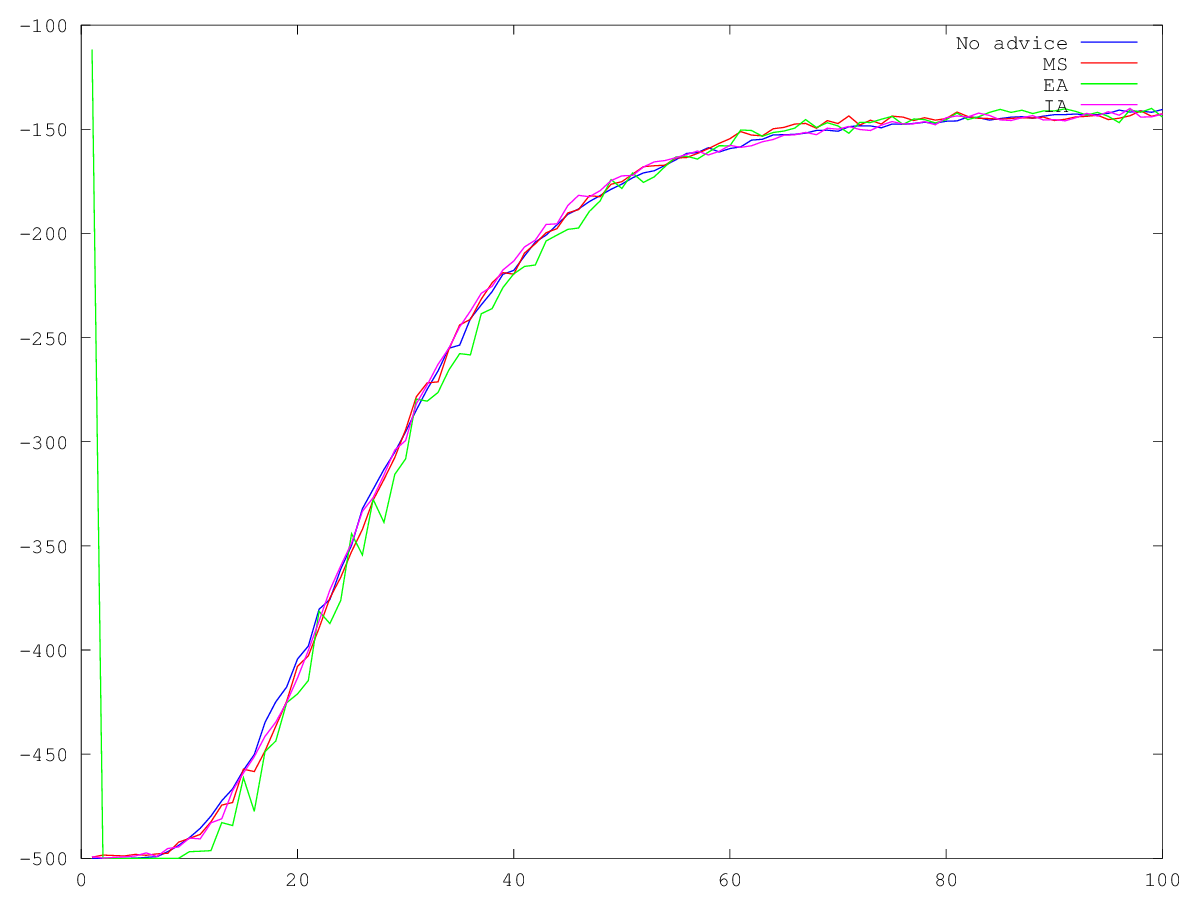
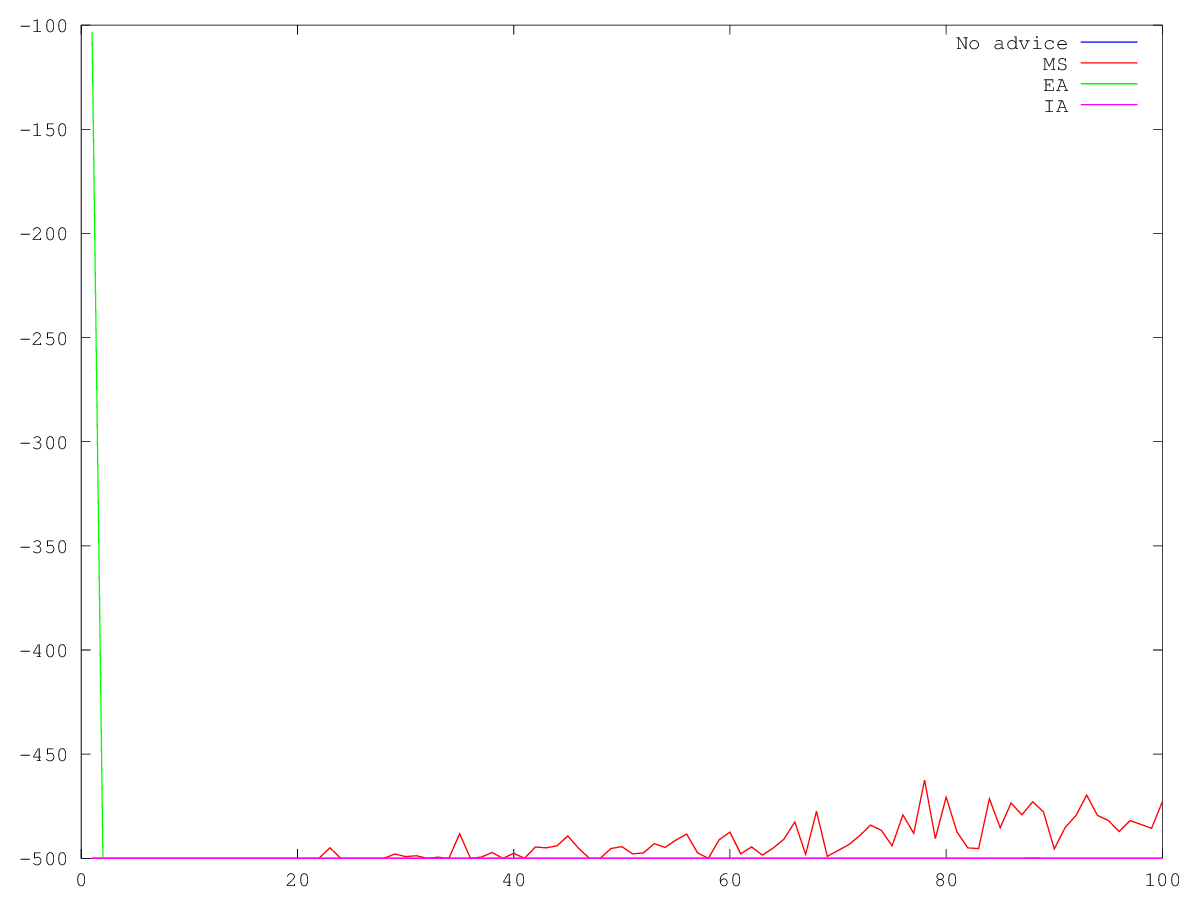
better tiling

diff --git a/library/src/test/main.cpp b/library/src/test/main.cpp
@@ -22,6 +22,8 @@ using namespace std;
 //     return simu::QL_gen;
 // }
 
+void debug();
+
 AdviseStrategy parseAdviseStrat(char*c, int start) {
     if(c[start]=='B') {
         return AdviseStrategy::before;
@@ -95,12 +97,12 @@ int main(int argc, char* argv[])
 
         } else if(argv[1][0] == 'T' && argv[1][1] == 'B') {
             tbs = parseTBStrategyAdvice(argv[1], 3);
-	    sea = sml::InformedExploration;
+            sea = sml::InformedExploration;
 
             if(argc > 4)
                 numberAdvice = atoi(argv[4]);
-	    if(argc > 5)
-		sea = parseStrategyEffectsAdvice(argv[5], 0);
+            if(argc > 5)
+                sea = parseStrategyEffectsAdvice(argv[5], 0);
         }
         else handled = false;
 
@@ -184,9 +186,9 @@ int main(int argc, char* argv[])
 
 // 	m.T_run_simple<MCarState>(new MCar(1,1), MCarParam, MCarParam, simu::before, sml::Max, 2, 0);
 
-        m.runTeachingBudget(new MCar(1,1), MCarParam, pourcentage, 100, false, 150, Max);
+//         m.runTeachingBudget(new MCar(1,1), MCarParam, pourcentage, 100, false, 150, Max);
 // 	m.runTeachingBudget(new MCar(1,1), MCarParam, early_advice, 100, false, 150, InformedExploration);
-	
+
 // 	m.F_run_simple<MCarState>(simu::QL_gen, new MCar(1, 1), MCarParam, 300, false);
 
 
@@ -196,9 +198,52 @@ int main(int argc, char* argv[])
 // 	m.F_run_simple<MCarState>(simu::QL, new MCar(8,8), MCarParam, 1000);
 //         m.T_run_simple<GridWorldLSState, FavorAdvice>(simu::Sarsa_, simu::QL, new GridWorldLS(), GridWorldLSParam, DefaultParam, true, after, sml::Max, 5, 1000);
 // 	m.F_run_simple<GridWorldLSState>(simu::QL, new GridWorldLS, GridWorldLSParam, 10000);
+
+        debug();
     }
 
 
     bib::Logger::endInstance();
     return 0;
+}
+
+void debug() {
+    Utils::srand_mili();
+    MCar car(8, 8);
+    DraftTest t;DAction *a;
+
+    unsigned int nbFeature = 0;
+    featureData<MCarState> features = t.createFeatures<MCarState>(MCarParam);
+    for(fLiterator<MCarState> flist = features.func->begin() ; flist != features.func->end(); ++flist) {
+        nbFeature += (*flist)->getSize();
+    }
+
+    car.init();
+    QLearnGradient<MCarState> q(features.func, nbFeature, car.getActions(), *car.getInitialAction(), MCarParam, InformedExploration);
+    car.apply(*car.getInitialAction());
+    q.should_do(car.getState(), *new DAction(car.getActions(), 1), car.reward());
+    car.apply(*new DAction(car.getActions(), 1));
+    q.learn(car.getState(), car.reward());
+    
+    car.init();
+    q.clear_history(car.getState(), *car.getInitialAction());
+    car.apply(*car.getInitialAction());
+    a = q.learn(car.getState(), car.reward());
+    LOG_DEBUG(*a);
+    
+// // // // // // //     
+    /*
+    
+    car.init();
+    QLearnGradient<MCarState> q2(features.func, nbFeature, car.getActions(), *car.getInitialAction(), MCarParam, InformedExploration);
+    car.apply(*car.getInitialAction());
+    q2.lear
+    car.apply(*new DAction(car.getActions(), 1));
+    q2.learn(car.getState(), car.reward());
+    
+    car.init();
+    q2.clear_history(car.getState(), *car.getInitialAction());
+    car.apply(*car.getInitialAction());
+    a = q2.learn(car.getState(), car.reward());
+    LOG_DEBUG(*a);*/
 }

diff --git a/library/include/test/FeaturesImpl.hpp b/library/include/test/FeaturesImpl.hpp
@@ -20,7 +20,7 @@ using namespace simu;
 #define G_K2 5.
 #define G_M  1.
 
-static const RLParam MCarParam = {0.05, 0.08, 0.9, 1., false, -250., (int) M, 40., 40.};
+static const RLParam MCarParam = {0.05, 0.08, 0.9, 1., false, 0., (int) M, 40., 40.};
 static const RLParam GridWorldParam= {0.05, 0.08, 0.9, 0.8, false, -2., (int) G_M, 22., 18.85};
 
 static const RLParam GridWorldLSParam= {0.05, 0.08, 0.9, 0.6, false, 0., (int) M, 0., 0.};
@@ -39,19 +39,19 @@ public:
     double callPosition(const MCarState& st, const DAction& ac)
     {
         (void) ac;
-        return sml::Utils::transform(st.position, -1.2, 0.6, 0., 1.8) + i*((1.8/K)/M);
+        return sml::Utils::transform(st.position, -1.2, 0.6, 0., 1.8) - (1.8/K) + i*(((2*1.8)/K)/M);
     }
 
     double callVelocity(const MCarState& st, const DAction& ac)
     {
         (void) ac;
-        return sml::Utils::transform(st.velocity, -0.07, 0.07, 0., 0.14) + i*((0.14/K)/M) ;
+        return sml::Utils::transform(st.velocity, -0.07, 0.07, 0., 0.14) - (0.14/K) + i*(((2*0.14)/K)/M) ;
     }
 
     double callAction(const MCarState& st, const DAction& ac)
     {
         (void) st;
-        return ((double)ac["motor"]) /*+ i*((3/3)/M)*/;
+        return ((double)ac["motor"]);
     }
     double i;
 };

diff --git a/library/src/simu/MCar.cpp b/library/src/simu/MCar.cpp
@@ -14,13 +14,17 @@ MCar::MCar(int nbPosStep, int nbVelStep) : Environnement< MCarState >(new StateT
 }
 
 void MCar::initState(bool random) {
-  if(!random){
-    state->position = -0.5;
-    state->velocity = 0.0;
-  } else {
-    state->position = sml::Utils::randin(mcar_min_position, mcar_max_position);
-    state->velocity = sml::Utils::randin(-mcar_max_velocity, mcar_max_velocity);
-  }
+    if(!random) {
+        state->position = -0.5;
+        state->velocity = 0.0;
+//         state->position = -1.2;
+//         state->velocity = -0.07;
+//         state->position = 0.59;
+//         state->velocity = 0.069;
+    } else {
+        state->position = sml::Utils::randin(mcar_min_position, mcar_max_position);
+        state->velocity = sml::Utils::randin(-mcar_max_velocity, mcar_max_velocity);
+    }
 }
 
 void MCar::applyOn(const DAction& ac)
@@ -46,7 +50,7 @@ void MCar::applyOn(const DAction& ac)
 double MCar::reward() const {
     if(!goal())
         return -1.;
-	
+
     return 0;
 }
 

diff --git a/library/include/sml/Feature.hpp b/library/include/sml/Feature.hpp
@@ -44,9 +44,9 @@ public:
 
         int index = 0;
         for(int i=0; i< params.size(); i+=2) {
-            maxi[index] = params[i];
+            maxi[index] = params[i] + 2; // add external 
             total[index] = params[i+1];
-            width[index] = total[index]/maxi[index];
+            width[index] = total[index]/(maxi[index] - 2);
             size *= maxi[index];
             index++;
         }
@@ -84,6 +84,7 @@ public:
         for(int index=0; index < featuresl.size(); index++) {
 // 	    LOG_DEBUG(featuresl[index](st, ac) << " " << (int) floor( featuresl[index](st, ac) / width[index]) << " " <<  maxi[index] << " " << width[index] << " " << index);
             var[index] = (int) floor( featuresl[index](st, ac) / width[index]);
+	    var[index] ++; //for left depassement
             if(var[index] < 0 || var[index] >= maxi[index])
                 return -1;
         }

diff --git a/library/include/sml/QLearnGradient.hpp b/library/include/sml/QLearnGradient.hpp
@@ -342,10 +342,11 @@ private:
             for(list<int>::iterator it=actived->begin(); it != actived->end(); ++it)
                 _Qa += teta[*it];
 
-// 	    LOG_DEBUG("old :" << Qa(*ai) << " new :" << _Qa);
+// 	    LOG_DEBUG("old :" << Qa(**ai) << " new :" << _Qa);
             Qa(**ai) = _Qa;
             delete actived;
         }
+//         LOG_DEBUG("#########");
     }
 
 

diff --git a/library/scripts/graphs/TB_0.m b/library/scripts/graphs/TB_0.m
@@ -29,5 +29,3 @@ sum( Z - X )/100
 
 ad = load('../../data/TBMMC_100_0_150#2');
 mean(ad)(100)
-
-print('TB_0.png')
